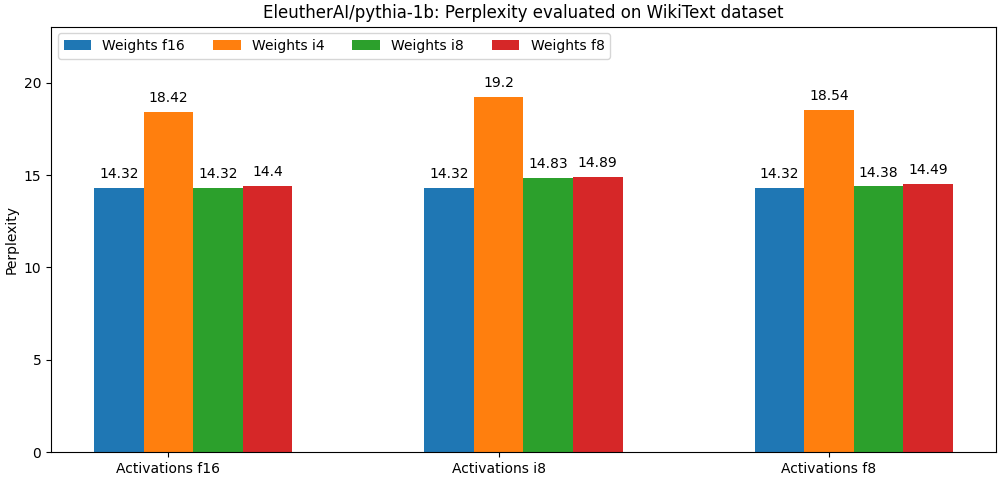
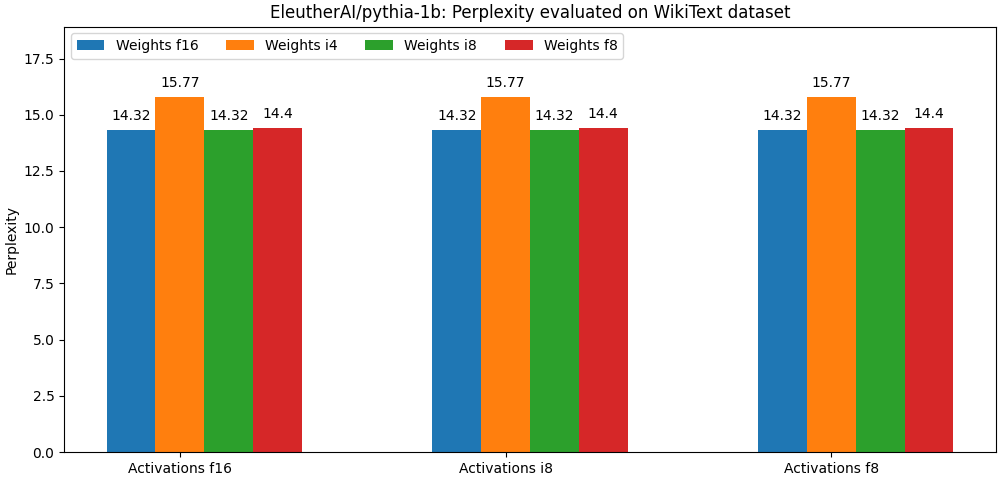
docs: update benchmark numbers

diff --git a/bench/generation/README.md b/bench/generation/README.md
@@ -8,52 +8,75 @@ This repository contains scripts to evaluate the performances of quantized model
 
 A `evaluate_model.py` utility script is also provided to evaluate the metrics on a specific model for several quantization configurations, and output the result to a `png` barchart and/or a `json` file.
 
-The paragraphs below display results for some popular models on a NVIDIA A100 GPU.
+Note: the language modeling head (lm_head) of the tested models is not quantized.
 
-## facebook/opt-125m
+The paragraphs below display results for some popular models on a NVIDIA A10 GPU.
+
+## meta-llama/Meta-Llama-3-8B
 
 <div class="row"><center>
   <div class="column">
-    <img src="https://github.com/huggingface/quanto/blob/main/bench/generation/charts/facebook-opt-125m_Accuracy.png" alt="facebook/opt-125m Lambada prediction accuracy">
+    <img src="https://github.com/huggingface/quanto/blob/main/bench/generation/charts/meta-llama-Meta-llama-3-8B_Accuracy.png" alt="meta-llama/Meta-llama-3-8B Lambada prediction accuracy">
   </div>
  </center>
 </div>
 
 <div class="row"><center>
   <div class="column">
-    <img src="https://github.com/huggingface/quanto/blob/main/bench/generation/charts/facebook-opt-125m_Perplexity.png" alt="facebook/opt-125m WikiText perplexity">
-  </div>
- </center>
-</div>
-
-## facebook/opt-350m
-
-<div class="row"><center>
-  <div class="column">
-    <img src="https://github.com/huggingface/quanto/blob/main/bench/generation/charts/facebook-opt-350m_Accuracy.png" alt="facebook/opt-350m Lambada prediction accuracy">
+    <img src="https://github.com/huggingface/quanto/blob/main/bench/generation/charts/meta-llama-Meta-Llama-3-8B_Perplexity.png" alt="meta-llama/Meta-Llama-3-8B WikiText perplexity">
   </div>
  </center>
 </div>
 
 <div class="row"><center>
   <div class="column">
-    <img src="https://github.com/huggingface/quanto/blob/main/bench/generation/charts/facebook-opt-350m_Perplexity.png" alt="facebook/opt-350m WikiText perplexity">
+    <img src="https://github.com/huggingface/quanto/blob/main/bench/generation/charts/meta-llama-Meta-Llama-3-8B_Latency__ms_.png" alt="meta-llama/Meta-Llama-3-8B Latency">
   </div>
  </center>
 </div>
 
-## facebook/opt-1.3b
+## mistralai/Mistral-7B-Instruct-v0.3
 
 <div class="row"><center>
   <div class="column">
-    <img src="https://github.com/huggingface/quanto/blob/main/bench/generation/charts/facebook-opt-1.3b_Accuracy.png" alt="facebook/opt-1.3bm Lambada prediction accuracy">
+    <img src="https://github.com/huggingface/quanto/blob/main/bench/generation/charts/mistralai-Mistral-7B-Instruct-v0.3_Accuracy.png" alt="mistralai/Mistral-7B-Instruct-v0.3 Lambada prediction accuracy">
   </div>
  </center>
 </div>
 
 <div class="row"><center>
   <div class="column">
-    <img src="https://github.com/huggingface/quanto/blob/main/bench/generation/charts/facebook-opt-1.3b_Perplexity.png" alt="facebook/opt-1.3bm WikiText perplexity">
+    <img src="https://github.com/huggingface/quanto/blob/main/bench/generation/charts/mistralai-Mistral-7B-Instruct-v0.3_Perplexity.png" alt="mistralai/Mistral-7B-Instruct-v0.3 WikiText perplexity">
+  </div>
+ </center>
+</div>
+
+<div class="row"><center>
+  <div class="column">
+    <img src="https://github.com/huggingface/quanto/blob/main/bench/generation/charts/mistralai-Mistral-7B-Instruct-v0.3_Latency__ms_.png" alt="mistralai/Mistral-7B-Instruct-v0.3 Latency">
+  </div>
+ </center>
+</div>
+
+## google/gemma-2b
+
+<div class="row"><center>
+  <div class="column">
+    <img src="https://github.com/huggingface/quanto/blob/main/bench/generation/charts/google-gemma-2b_Accuracy.png" alt="google-gemma-2b Lambada prediction accuracy">
+  </div>
+ </center>
+</div>
+
+<div class="row"><center>
+  <div class="column">
+    <img src="https://github.com/huggingface/quanto/blob/main/bench/generation/charts/google-gemma-2b_Perplexity.png" alt="google-gemma-2b WikiText perplexity">
+  </div>
+ </center>
+</div>
+
+<div class="row"><center>
+  <div class="column">
+    <img src="https://github.com/huggingface/quanto/blob/main/bench/generation/charts/google-gemma-2b_Latency__ms_.png" alt="google-gemma-2b Latency">
   </div>
  </center>
 </div>
@@ -74,6 +97,13 @@ The paragraphs below display results for some popular models on a NVIDIA A100 GP
  </center>
 </div>
 
+<div class="row"><center>
+  <div class="column">
+    <img src="https://github.com/huggingface/quanto/blob/main/bench/generation/charts/EleutherAI-pythia-1b_Latency_ms_.png" alt="EleutherAI-pythia-1b Latency">
+  </div>
+ </center>
+</div>
+
 ## princeton-nlp/Sheared-LLaMA-1.3B
 
 <div class="row"><center>
@@ -90,66 +120,9 @@ The paragraphs below display results for some popular models on a NVIDIA A100 GP
  </center>
 </div>
 
-## NousResearch/Llama-2-7b-hf
-
 <div class="row"><center>
   <div class="column">
-    <img src="https://github.com/huggingface/quanto/blob/main/bench/generation/charts/NousResearch-Llama-2-7b-hf_Accuracy.png" alt="NousResearch/Llama-2-7b-hf Lambada prediction accuracy">
-  </div>
- </center>
-</div>
-
-<div class="row"><center>
-  <div class="column">
-    <img src="https://github.com/huggingface/quanto/blob/main/bench/generation/charts/NousResearch-Llama-2-7b-hf_Perplexity.png" alt="NousResearch/Llama-2-7b-hf WikiText perplexity">
-  </div>
- </center>
-</div>
-
-## mistralai/Mistral-7B-v0.1
-
-<div class="row"><center>
-  <div class="column">
-    <img src="https://github.com/huggingface/quanto/blob/main/bench/generation/charts/mistralai-Mistral-7B-v0.1_Accuracy.png" alt="mistralai/Mistral-7B-v0.1 Lambada prediction accuracy">
-  </div>
- </center>
-</div>
-
-<div class="row"><center>
-  <div class="column">
-    <img src="https://github.com/huggingface/quanto/blob/main/bench/generation/charts/mistralai-Mistral-7B-v0.1_Perplexity.png" alt="mistralai/Mistral-7B-v0.1 Lambada prediction accuracy">
-  </div>
- </center>
-</div>
-
-## HuggingFaceH4/zephyr-7b-beta
-
-<div class="row"><center>
-  <div class="column">
-    <img src="https://github.com/huggingface/quanto/blob/main/bench/generation/charts/HuggingFaceH4-zephyr-7b-beta_Accuracy.png" alt="HuggingFaceH4/zephyr-7b-beta Lambada prediction accuracy">
-  </div>
- </center>
-</div>
-
-<div class="row"><center>
-  <div class="column">
-    <img src="https://github.com/huggingface/quanto/blob/main/bench/generation/charts/HuggingFaceH4-zephyr-7b-beta_Perplexity.png" alt="HuggingFaceH4/zephyr-7b-beta Lambada prediction accuracy">
-  </div>
- </center>
-</div>
-
-## google/gemma-2b
-
-<div class="row"><center>
-  <div class="column">
-    <img src="https://github.com/huggingface/quanto/blob/main/bench/generation/charts/google-gemma-2b_Accuracy.png" alt="google-gemma-2b Lambada prediction accuracy">
-  </div>
- </center>
-</div>
-
-<div class="row"><center>
-  <div class="column">
-    <img src="https://github.com/huggingface/quanto/blob/main/bench/generation/charts/google-gemma-2b_Perplexity.png" alt="google-gemma-2b Lambada prediction accuracy">
+    <img src="https://github.com/huggingface/quanto/blob/main/bench/generation/charts/princeton-nlp-Sheared-LLaMA-1.3B_Latency__ms_.png" alt="princeton-nlp/Sheared-LLaMA-1.3B Latency">
   </div>
  </center>
 </div>

diff --git a/README.md b/README.md
@@ -89,16 +89,23 @@ Activations are dynamically quantized using static scales (defaults to the range
 In a nutshell:
 
 - accuracy: models compiled with `int8`/`float8` weights and `float8` activations are very close to the `16-bit` models,
-- latency: all models are at least `2x` slower than the `16-bit` models due to the lack of optimized kernels (for now).
+- latency: all models but those using int4 weights are at least `2x` slower than the `16-bit` models due to the lack of optimized kernels (for now).
 - device memory: approximately divided by float bits / integer bits.
 
 The paragraph below is just an example. Please refer to the `bench` folder for detailed results per use-case of model.
 
-### NousResearch/Llama-2-7b-hf
+### meta-llama/Meta-Llama-3-8B
 
 <div class="row"><center>
   <div class="column">
-    <img src="https://github.com/huggingface/quanto/blob/main/bench/generation/charts/NousResearch-Llama-2-7b-hf_Perplexity.png" alt="NousResearch/Llama-2-7b-hf WikiText perplexity">
+    <img src="https://github.com/huggingface/quanto/blob/main/bench/generation/charts/meta-llama-Meta-Llama-3-8B_Perplexity.png" alt="meta-llama/Meta-Llama-3-8B WikiText perplexity">
+  </div>
+ </center>
+</div>
+
+<div class="row"><center>
+  <div class="column">
+    <img src="https://github.com/huggingface/quanto/blob/main/bench/generation/charts/meta-llama-Meta-Llama-3-8B_Latency__ms_.png" alt="meta-llama/Meta-Llama-3-8B Latency">
   </div>
  </center>
 </div>
